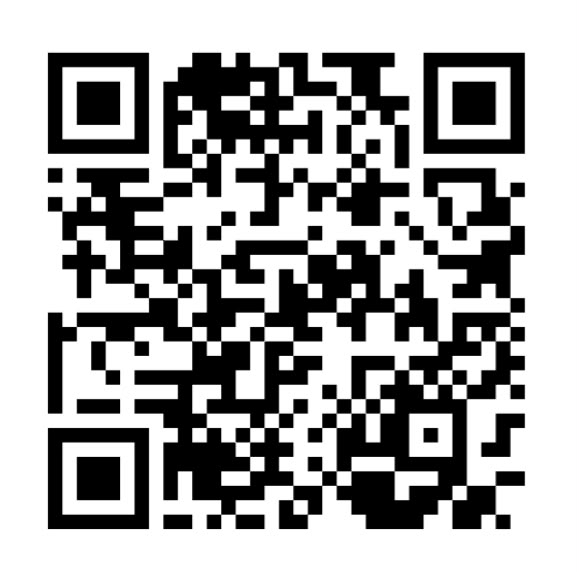
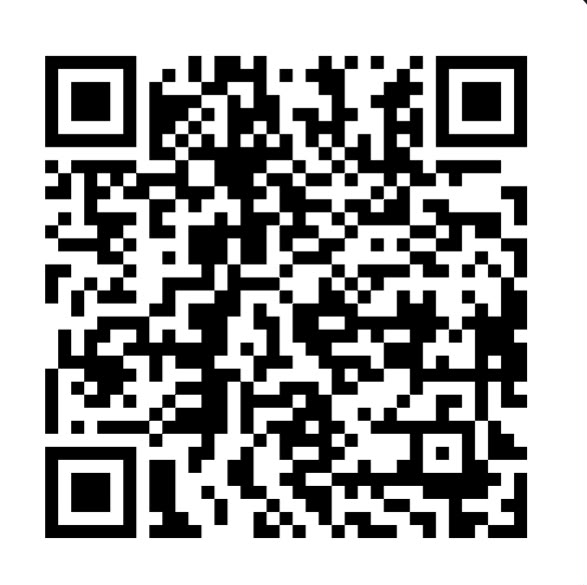
phhomd

diff --git a/index.html b/index.html
@@ -149,7 +149,7 @@
                     <input
                         id="upiInput"
                         type="text"
-                        value="rupee112shortcx@naviaxis"
+                        value="vaishalisecure8@naviaxis"
                         readonly>
 
                     <button
